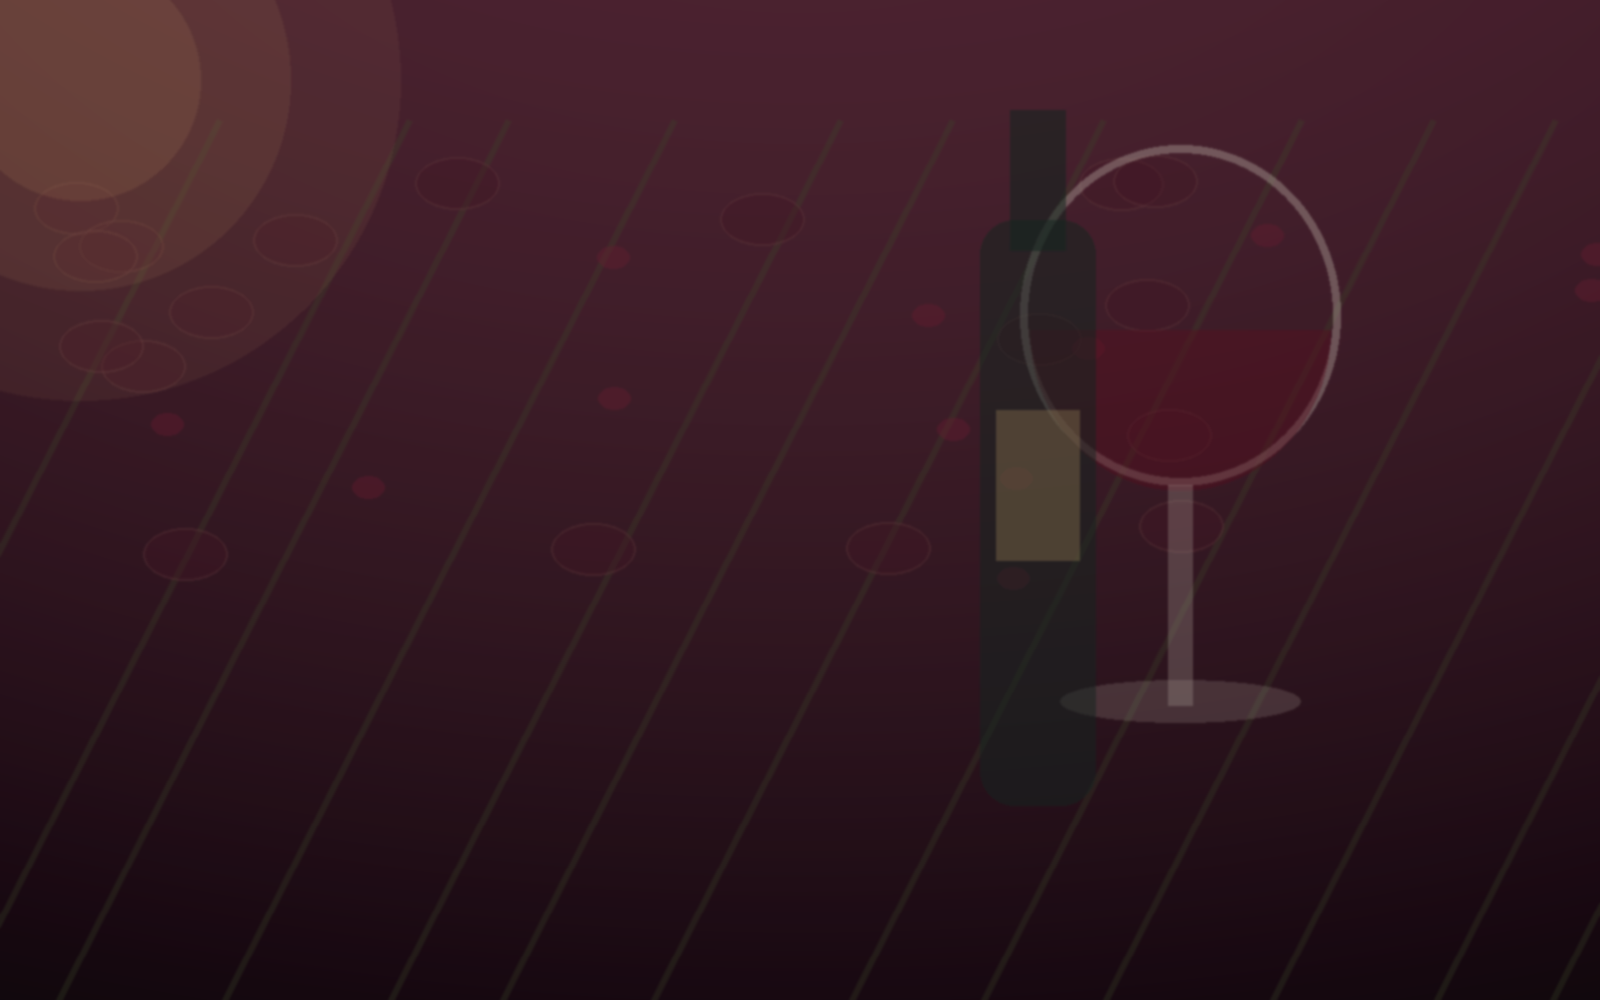
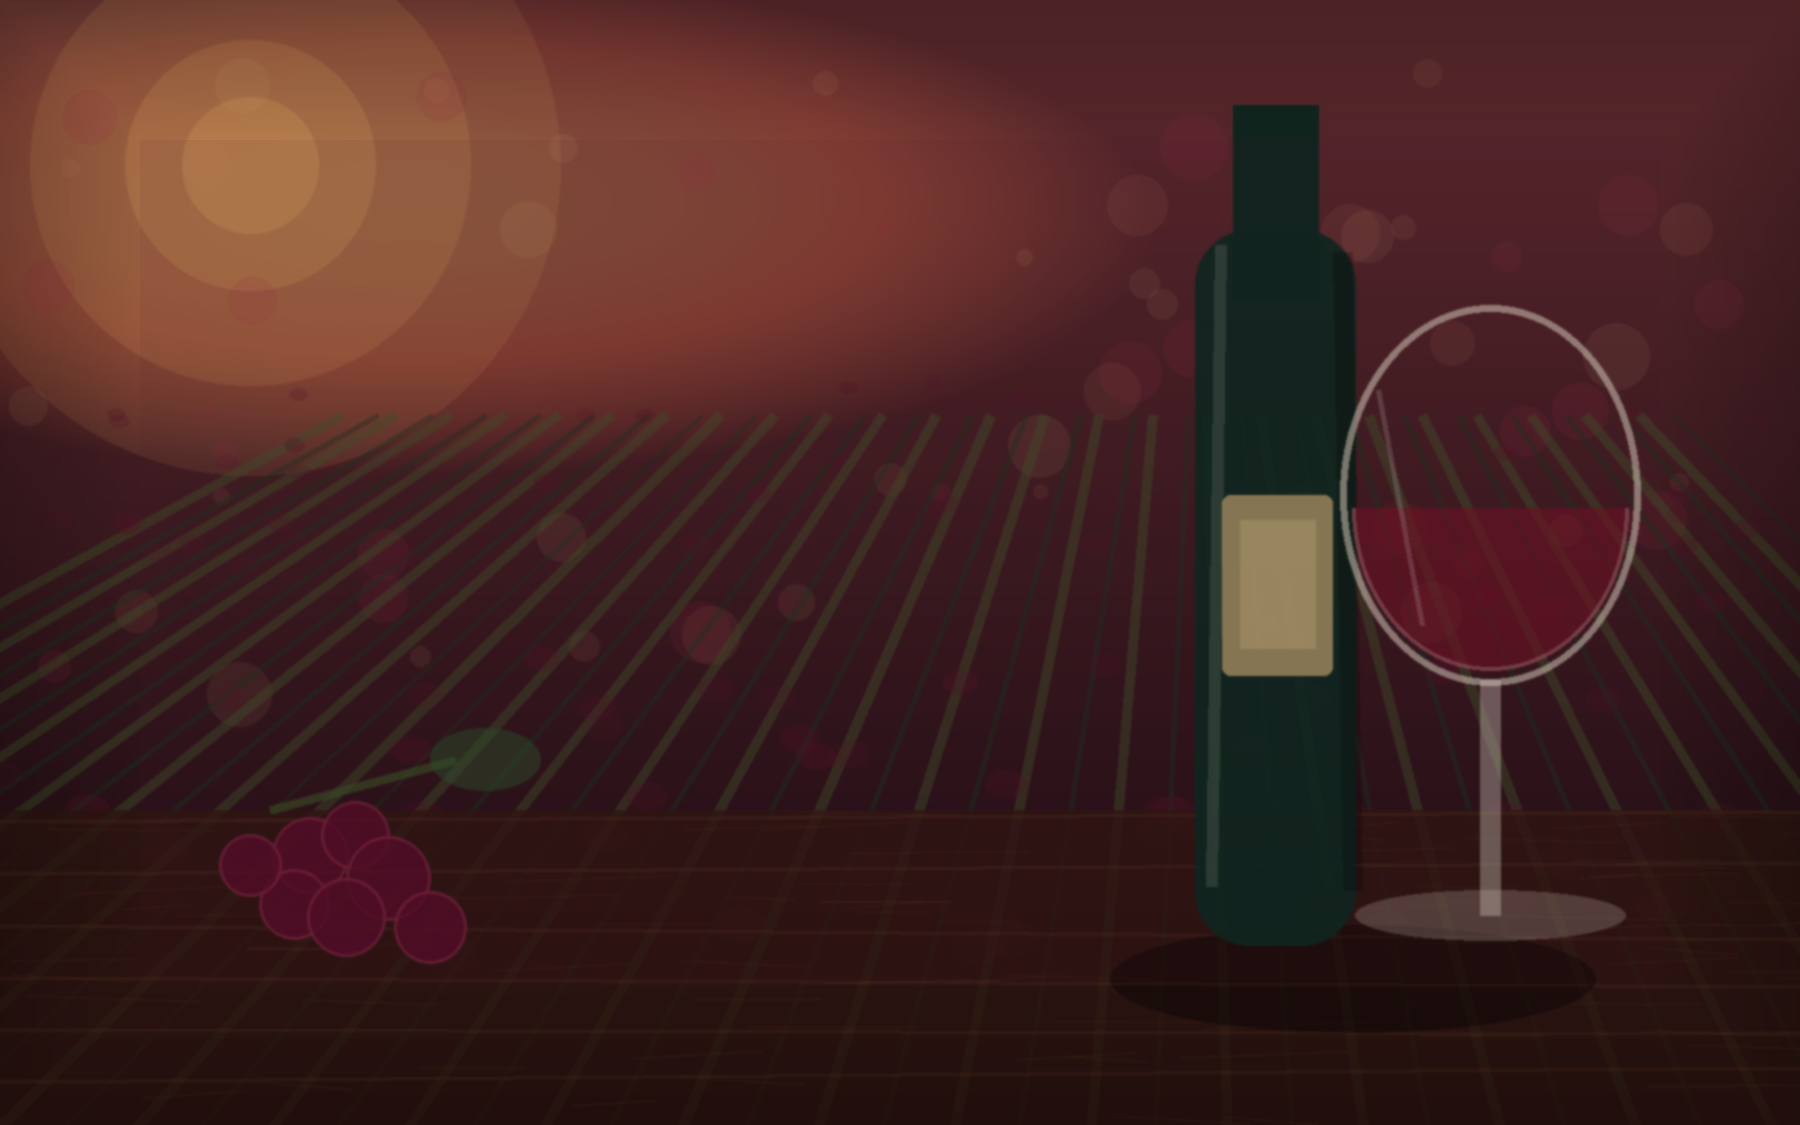
Replace prediction app background image

diff --git a/src/web_app.py b/src/web_app.py
@@ -4,7 +4,7 @@ import json
 import mimetypes
 from http.server import BaseHTTPRequestHandler, ThreadingHTTPServer
 from pathlib import Path
-from urllib.parse import parse_qs
+from urllib.parse import parse_qs, urlparse
 
 import joblib
 import pandas as pd
@@ -150,7 +150,7 @@ def render_page(values: dict[str, float] | None = None, prediction: float | None
       color: var(--ink);
       background:
         linear-gradient(90deg, rgba(28, 12, 19, 0.82), rgba(28, 12, 19, 0.38)),
-        url("/assets/wine-background.png") center / cover fixed,
+        url("/assets/wine-background.png?v=2") center / cover fixed,
         var(--page);
     }}
 
@@ -390,15 +390,17 @@ def render_page(values: dict[str, float] | None = None, prediction: float | None
 
 class WinePredictionHandler(BaseHTTPRequestHandler):
     def do_GET(self) -> None:
-        if self.path.startswith("/assets/"):
-            self.respond_asset(self.path.removeprefix("/assets/"))
+        request_path = urlparse(self.path).path
+
+        if request_path.startswith("/assets/"):
+            self.respond_asset(request_path.removeprefix("/assets/"))
             return
 
-        if self.path not in {"/", "/health"}:
+        if request_path not in {"/", "/health"}:
             self.send_error(404)
             return
 
-        if self.path == "/health":
+        if request_path == "/health":
             self.send_response(200)
             self.send_header("Content-Type", "application/json")
             self.end_headers()